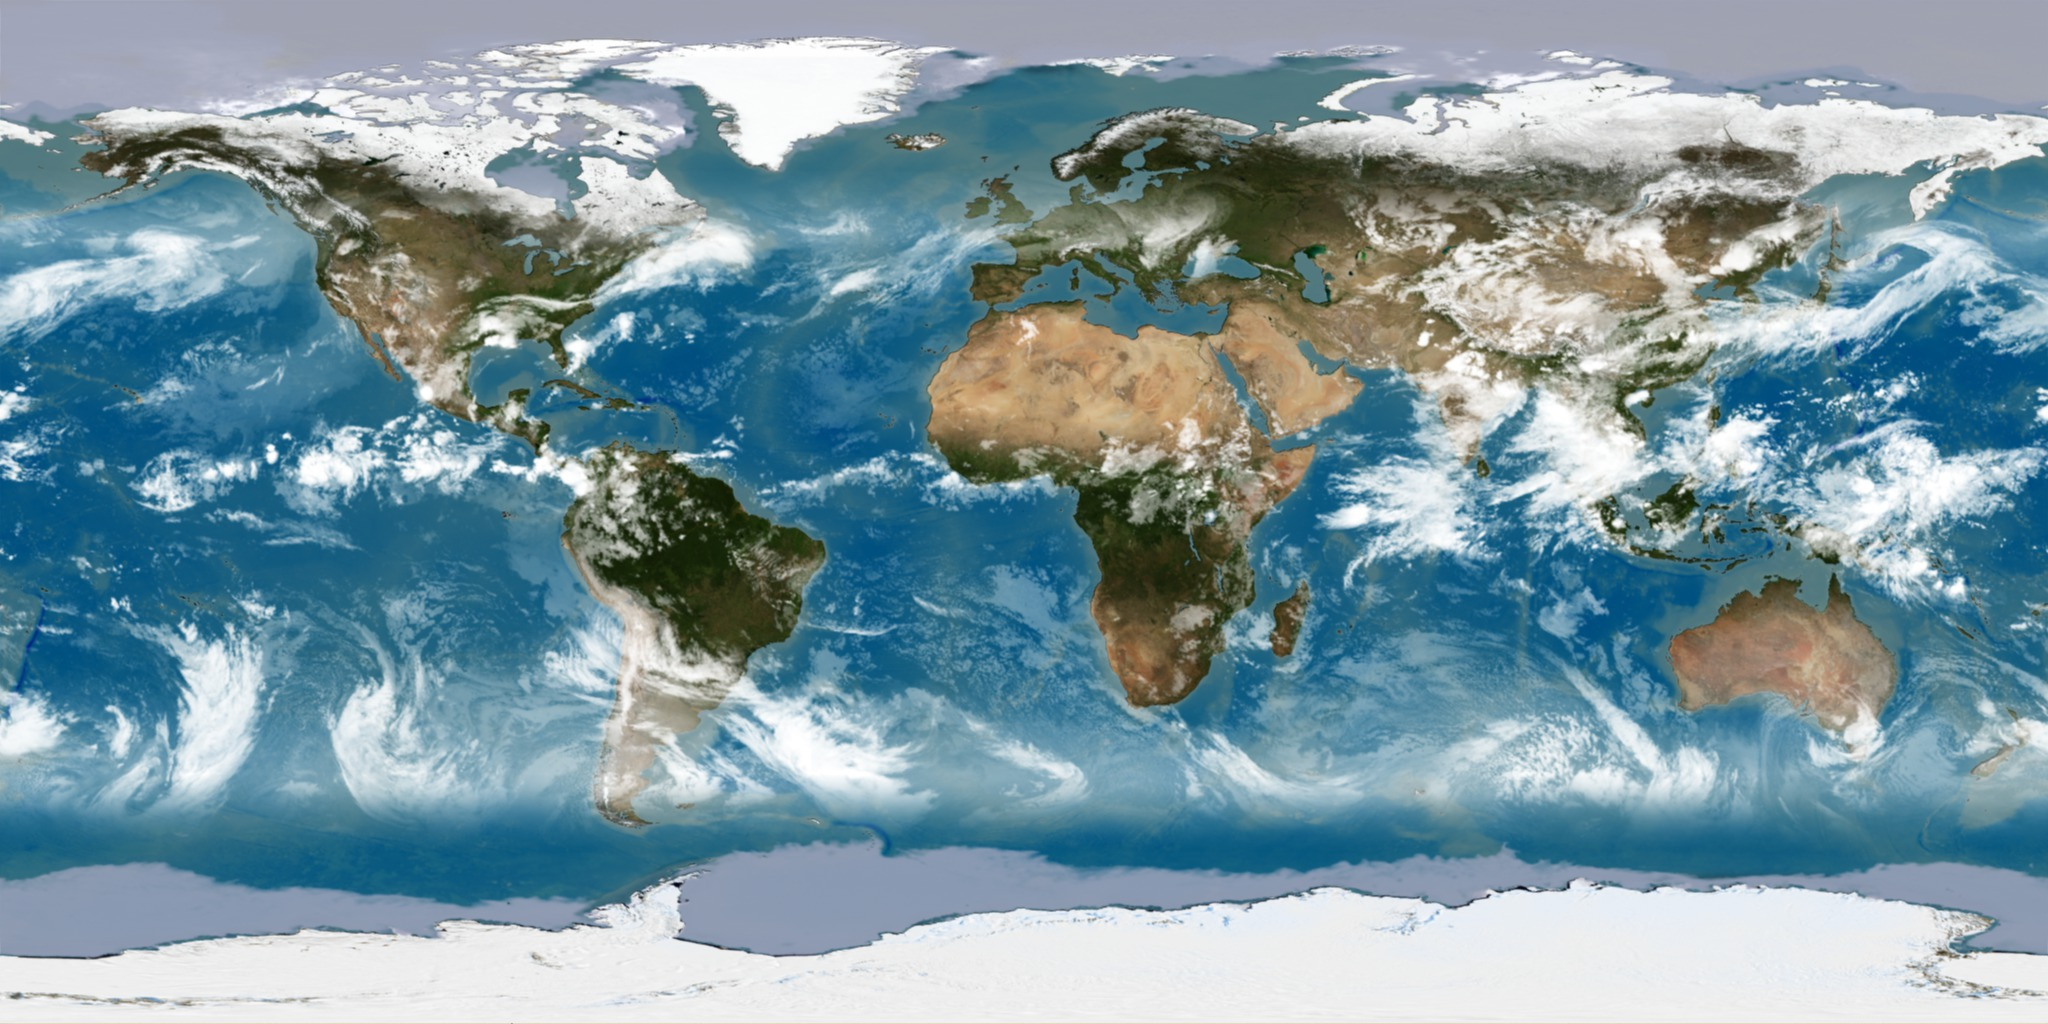
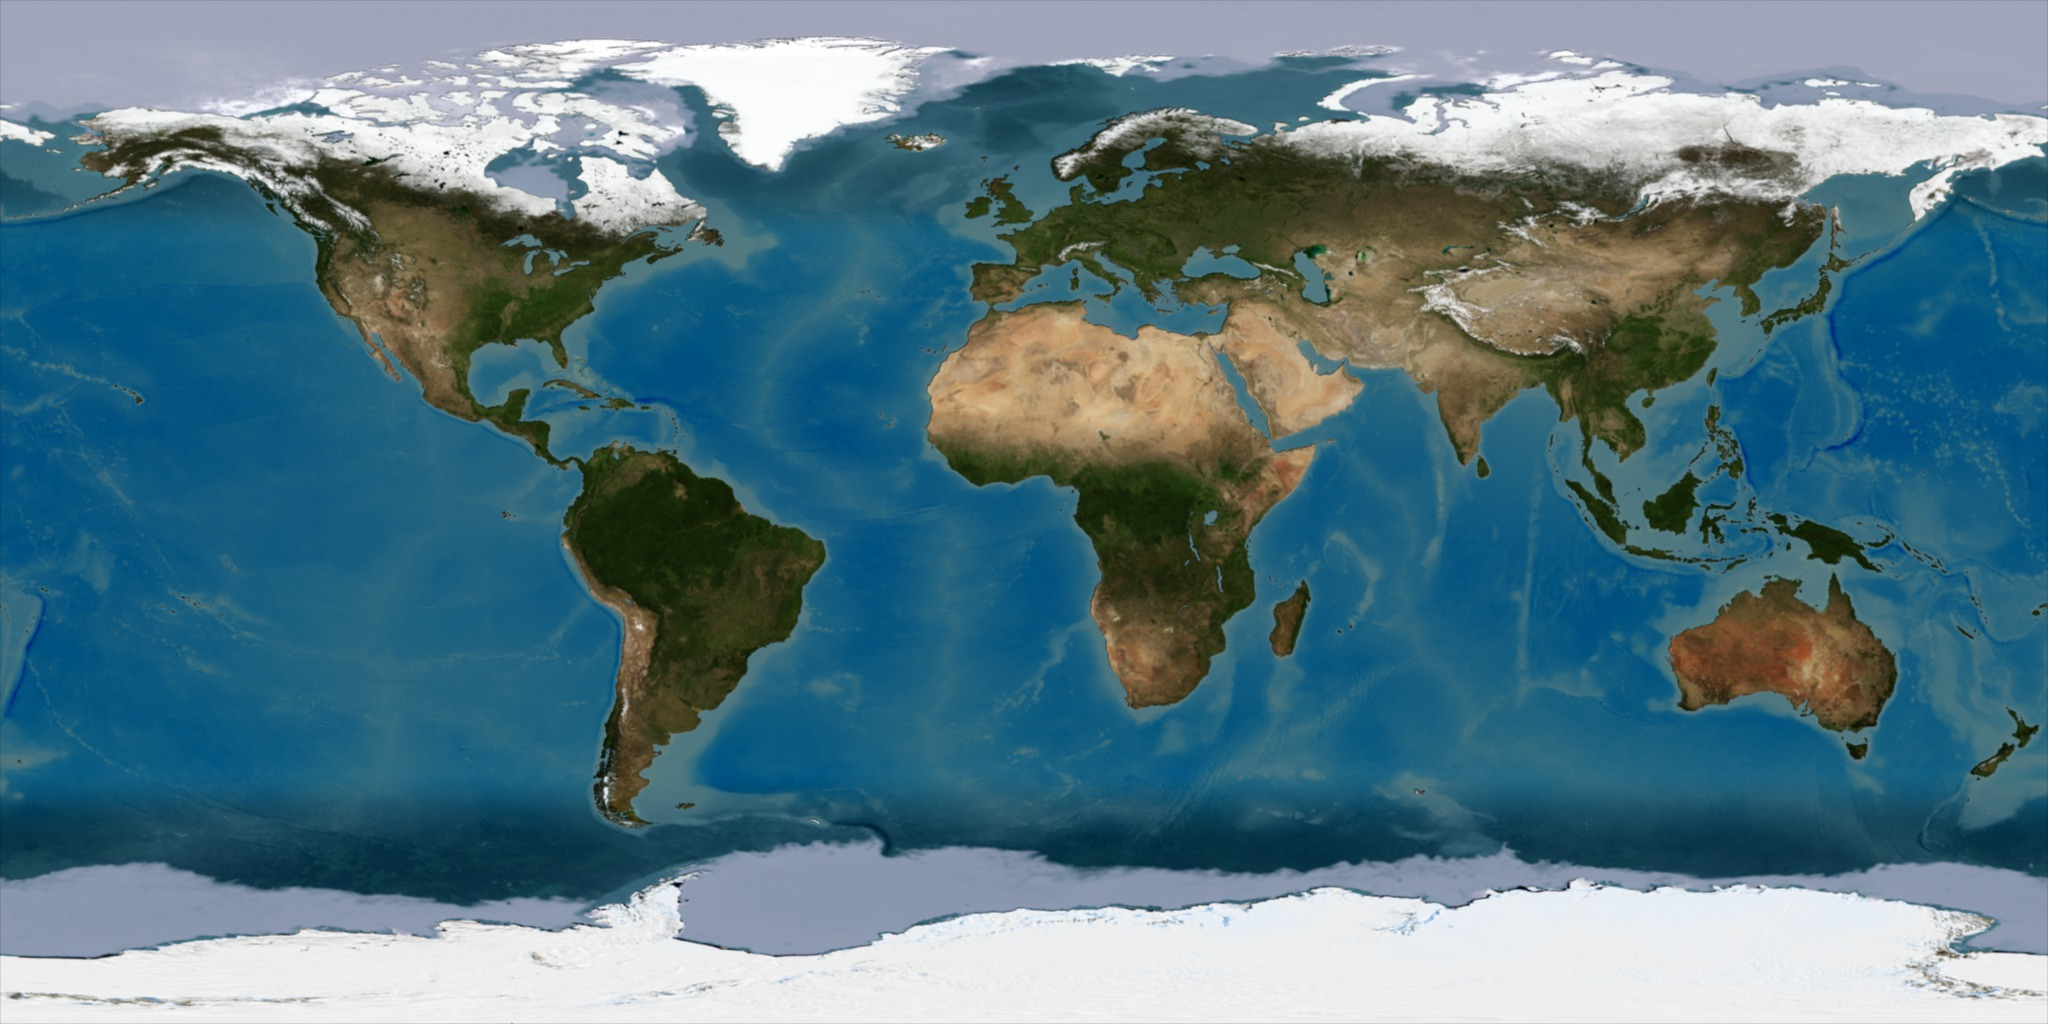
earth wit clouds

diff --git a/src/App.jsx b/src/App.jsx
@@ -2,6 +2,7 @@ import { OrbitControls } from 'three/addons/controls/OrbitControls.js';
 import { useEffect, useRef } from 'react';
 import * as THREE from 'three';
 import earthTextureImage from './assets/earth.png';
+import cloudTextureImage from './assets/clouds.png';
 import './App.css'
 
 function App() {
@@ -34,12 +35,30 @@ function App() {
     const textureLoader = new THREE.TextureLoader()
     const earthTexture = textureLoader.load(earthTextureImage)
 
-    //                                              (radius, widthSegments, heightSegments)
-    const sphereGeometry = new THREE.SphereGeometry(1,      32,             32)
-    const material = new THREE.MeshStandardMaterial({map: earthTexture, roughness: 1, color: 0xFFFFFF, wireframe: false});
+    // constants to define geometry of earth and clouds easily
+    const radius = 1;
+    const segments = 256;
+
+    // Earth                                       (radius, widthSegments, heightSegments)
+    const earthGeometry = new THREE.SphereGeometry(radius,  segments,      segments)
+    const earthMaterial = new THREE.MeshStandardMaterial({map: earthTexture, roughness: 1, color: 0xFFFFFF, wireframe: false});
     // create mesh, object that takes in a geometry and material and can be inserted into our scene and moved around
-    const sphere = new THREE.Mesh(sphereGeometry, material);
-    scene.add(sphere);
+    const earth = new THREE.Mesh(earthGeometry, earthMaterial);
+    scene.add(earth);
+
+    const cloudTexture = textureLoader.load(cloudTextureImage)
+
+    // Clouds                                     (radius,        widthSegments, heightSegments)
+    const cloudGeometry = new THREE.SphereGeometry(radius * 1.01, segments,      segments)
+    // create mesh, object that takes in a geometry and material and can be inserted into our scene and moved around
+    const cloudMaterial = new THREE.MeshStandardMaterial({
+      alphaMap: cloudTexture, // use alphaMap to be transparent based on brightness
+      transparent: true,
+      depthWrite: false,
+      // blending: THREE.AdditiveBlending // makes clouds look bright and realistic
+    });
+    const clouds = new THREE.Mesh(cloudGeometry, cloudMaterial);
+    scene.add(clouds);
 
     //create a blue LineBasicMaterial
     const linematerial = new THREE.LineBasicMaterial( { color: 0x0000ff } );
@@ -72,7 +91,8 @@ function App() {
     function animate(time) {
       // animate rotation
       controls.update()
-      sphere.rotation.y = time / 5000; // bigger number slower rotation
+      earth.rotation.y = time / 6000; // bigger number slower rotation
+      clouds.rotation.y = time / 4100; // bigger number slower rotation
       
       // update rendering
       renderer.render(scene, camera);
@@ -85,8 +105,8 @@ function App() {
       renderer.setAnimationLoop(null);
       controls.dispose();
       
-      sphereGeometry.dispose();
-      material.dispose();
+      earthGeometry.dispose();
+      earthMaterial.dispose();
       earthTexture.dispose();
       renderer.dispose();
 
